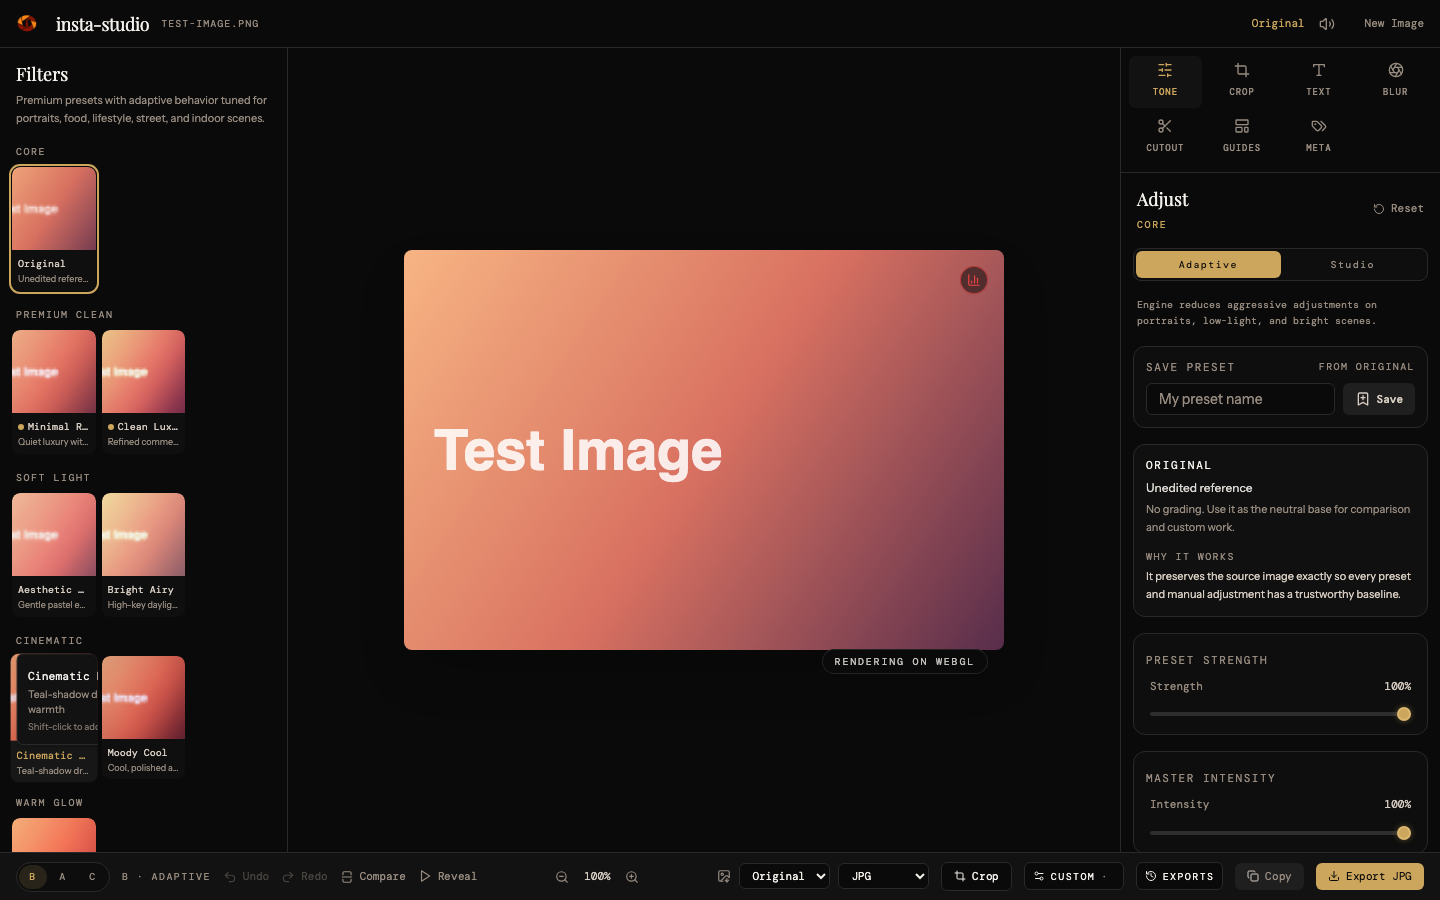
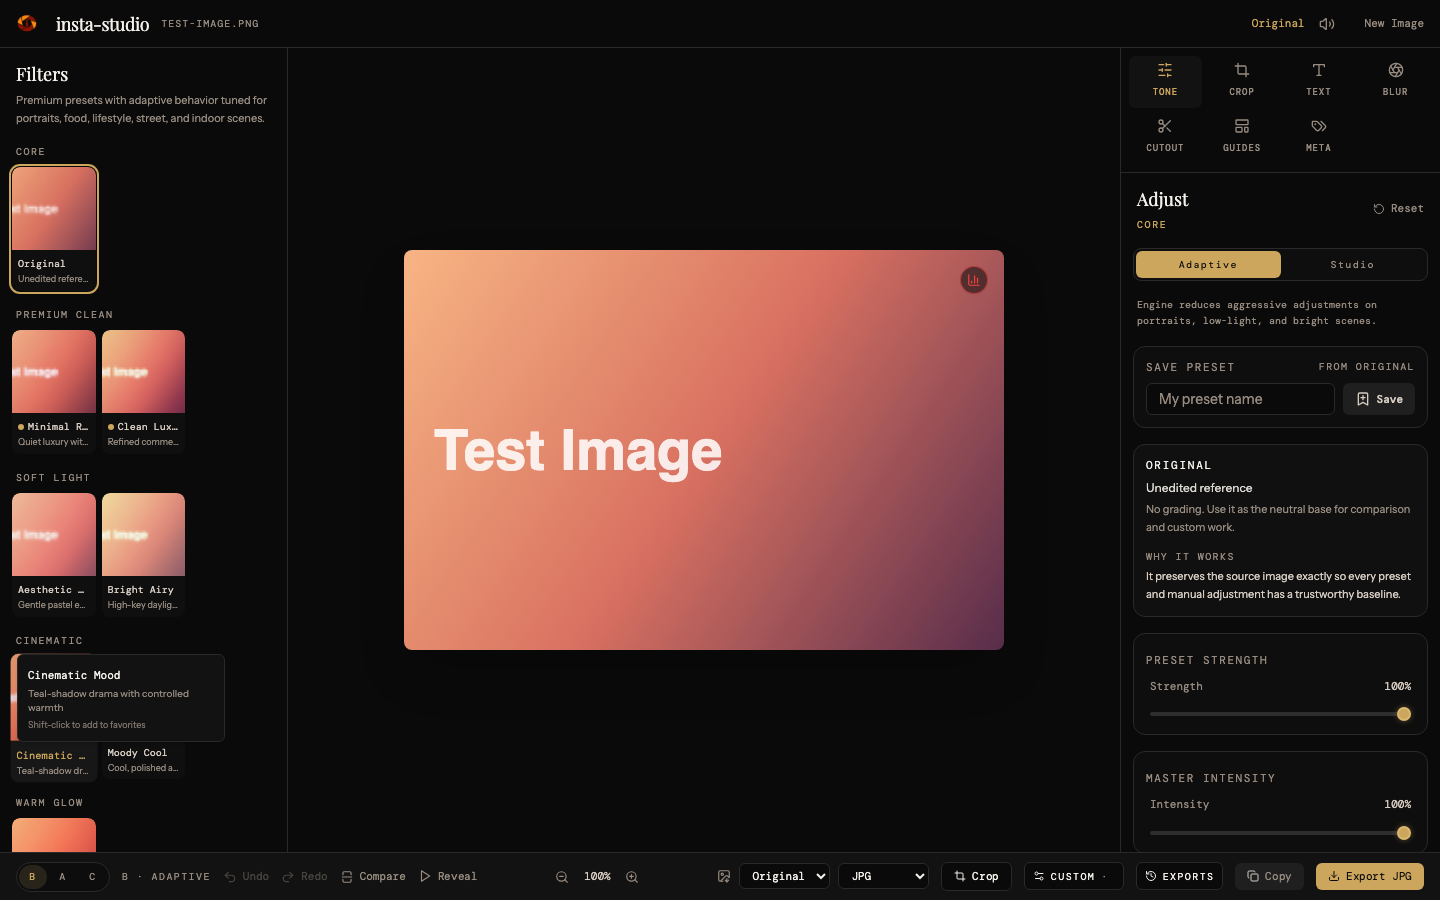
update ui

Changed region(s): [[0.0, 0.7156, 0.1562, 0.84], [0.5938, 0.7156, 0.6562, 0.7467]]

diff --git a/src/components/ui/tooltip.tsx b/src/components/ui/tooltip.tsx
@@ -13,15 +13,17 @@ const TooltipContent = React.forwardRef<
   React.ElementRef<typeof TooltipPrimitive.Content>,
   React.ComponentPropsWithoutRef<typeof TooltipPrimitive.Content>
 >(({ className, sideOffset = 4, ...props }, ref) => (
-  <TooltipPrimitive.Content
-    ref={ref}
-    sideOffset={sideOffset}
-    className={cn(
-      "z-50 overflow-hidden rounded-md border bg-popover px-3 py-1.5 text-sm text-popover-foreground shadow-md animate-in fade-in-0 zoom-in-95 data-[state=closed]:animate-out data-[state=closed]:fade-out-0 data-[state=closed]:zoom-out-95 data-[side=bottom]:slide-in-from-top-2 data-[side=left]:slide-in-from-right-2 data-[side=right]:slide-in-from-left-2 data-[side=top]:slide-in-from-bottom-2",
-      className,
-    )}
-    {...props}
-  />
+  <TooltipPrimitive.Portal>
+    <TooltipPrimitive.Content
+      ref={ref}
+      sideOffset={sideOffset}
+      className={cn(
+        "z-50 overflow-hidden rounded-md border bg-popover px-3 py-1.5 text-sm text-popover-foreground shadow-md animate-in fade-in-0 zoom-in-95 data-[state=closed]:animate-out data-[state=closed]:fade-out-0 data-[state=closed]:zoom-out-95 data-[side=bottom]:slide-in-from-top-2 data-[side=left]:slide-in-from-right-2 data-[side=right]:slide-in-from-left-2 data-[side=top]:slide-in-from-bottom-2",
+        className,
+      )}
+      {...props}
+    />
+  </TooltipPrimitive.Portal>
 ));
 TooltipContent.displayName = TooltipPrimitive.Content.displayName;
 

diff --git a/CHANGELOG.md b/CHANGELOG.md
@@ -18,6 +18,10 @@ project follows [Semantic Versioning](https://semver.org/spec/v2.0.0.html).
 - `recommendPresets` tie-break is now ASCII-stable (no more `localeCompare` locale dependence).
 - PNG `eXIf` CRC test sign fix (the implementation is correct; the test was reassembling bytes into a signed int).
 - Legacy EXIF normalize test fixture: the segment length byte was 0x0e but the payload was 8 bytes — corrected to 0x10.
+- Filter sidebar UX pass (grid and strip layouts):
+  - Truncated preset names now reveal a tooltip on hover (Radix, 300ms delay) with the full name, the preset's mood, and a Shift-click favorites hint; recommended presets additionally show a "Recommended for this photo" tag. `TooltipContent` now renders through `TooltipPrimitive.Portal` (matching `popover.tsx`) so the preset cards' `overflow: hidden` / hover-transform can no longer clip or misplace the bubble.
+  - Preset Strength / Master Intensity sliders displayed the percentage value twice; the duplicate render was removed so each slider shows a single `100%`.
+  - Flattened the sidebar's triple hierarchy: the "Recommended" section heading and per-preset BEST badges are gone. Recommended presets are marked with a small gold dot (`bg-primary`) next to their name, and the recommendation reason lives in the preset tooltip.
 
 ### Added
 - New **Umbra** preset (`id: umbra`, Moody category): dark autumn look — brilliance −50, shadows +40, contrast +5, saturation −31, warmth +3, tint −5, sharpness +14, definition +5 (engine keys: `brightness`, `shadows`, `contrast`, `saturation`, `temperature`, `tint`, `sharpness`, `clarity`). Registered at full default strength so the recipe applies verbatim, with matching curve/split-tone/HSL shaping, adaptive tuning, and scene affinity for the recommender. Covered by `src/test/umbra-preset.test.ts`.
